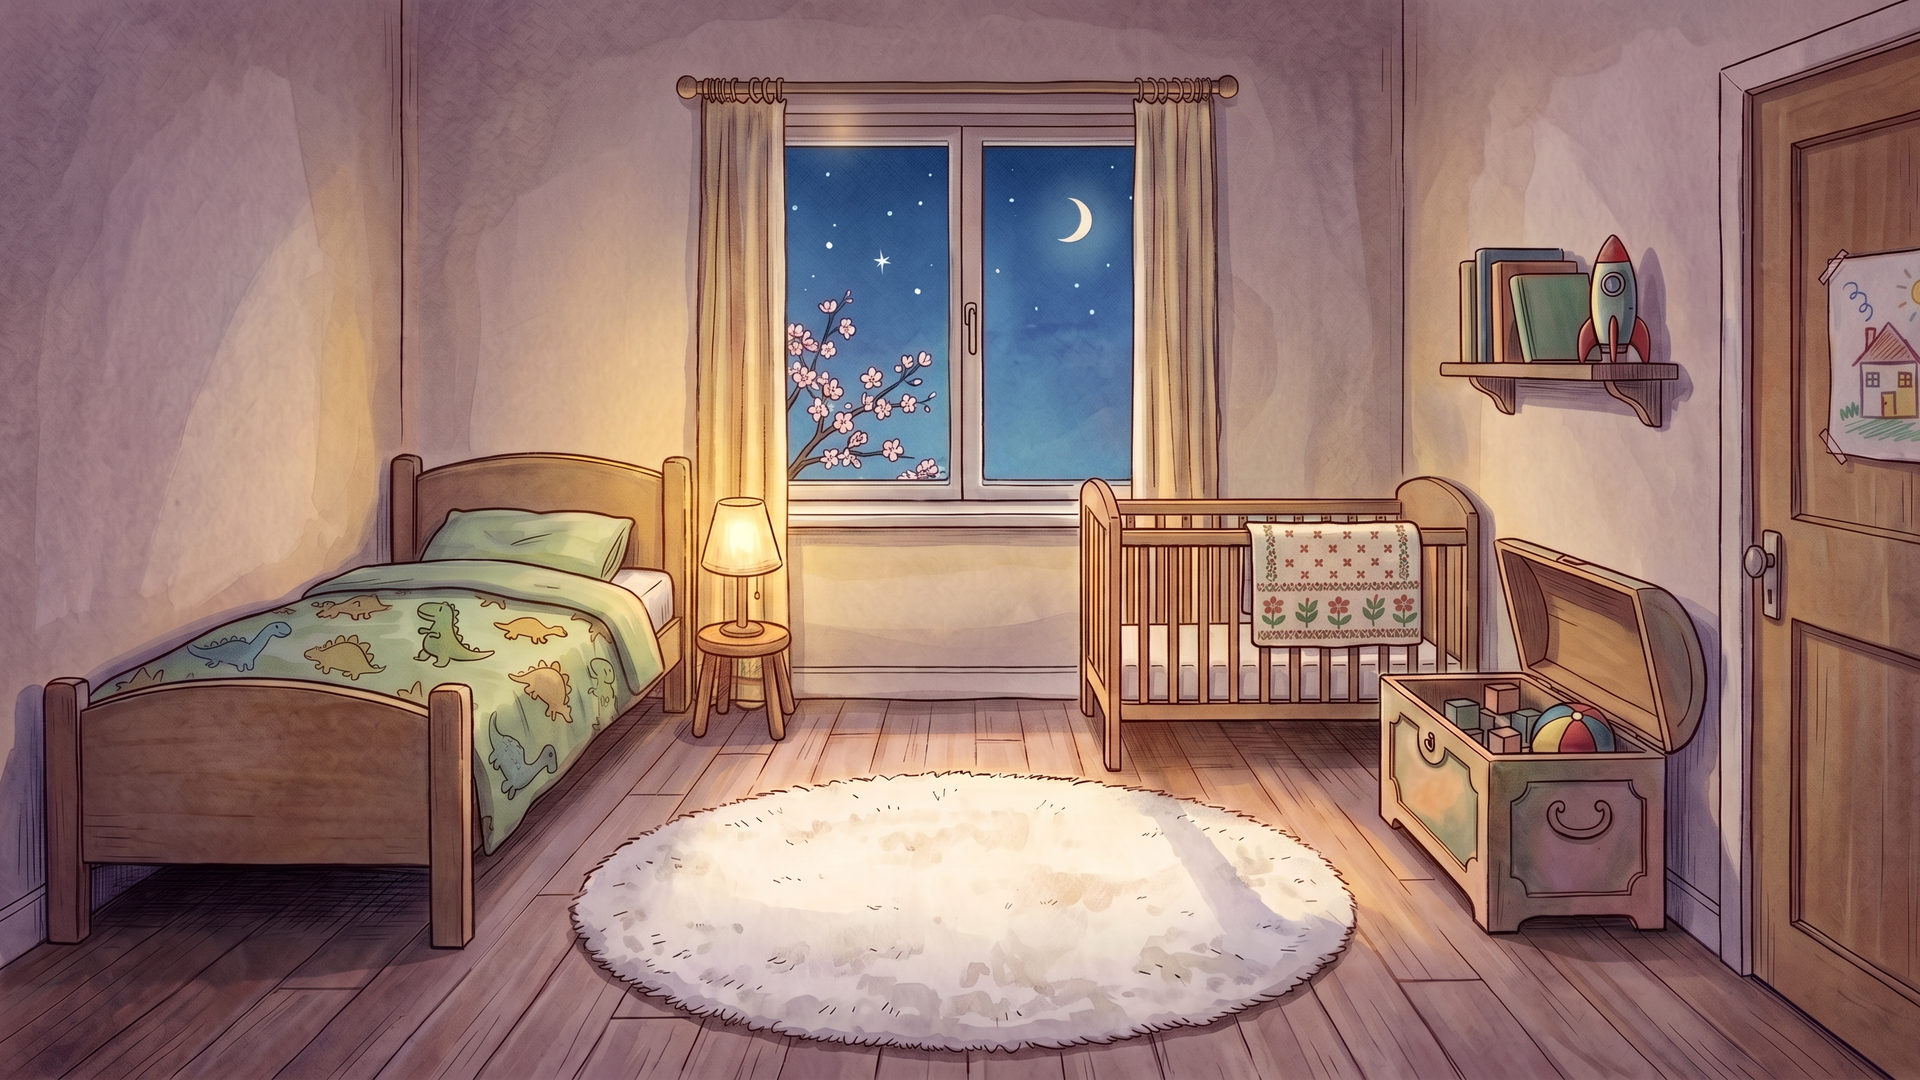
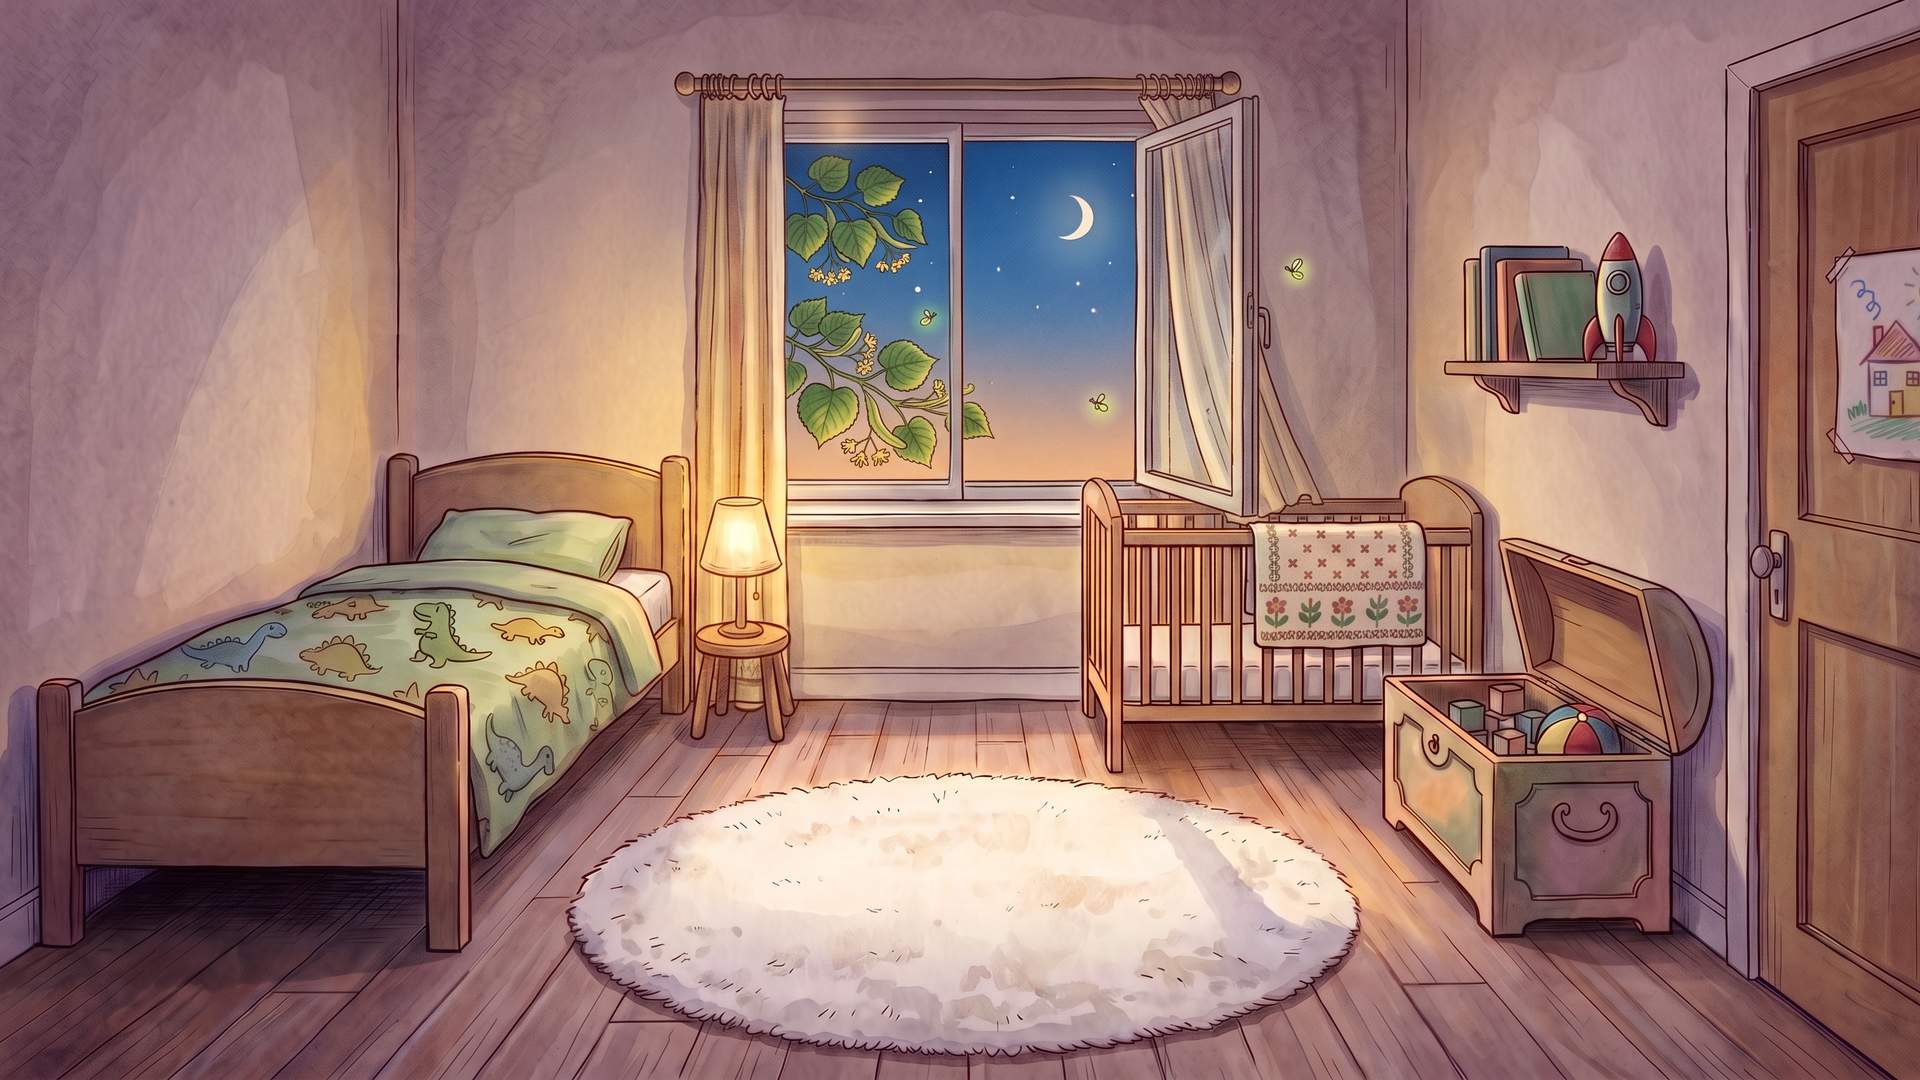
Picture cards for the prologue, burp and outro (2K); summer bedroom evening and morning

diff --git a/design/scenes/outro.md b/design/scenes/outro.md
@@ -51,3 +51,9 @@ Then → **the bedroom morning** (`bedroom`, `bg_morning`, scripted, no player c
   river), painted in the series style. No text, no signs.
 - The morning beat uses the bedroom `bg_morning` plus a new Julek pose holding the tuft
   (`wool_r`); `outro_end` is a card.
+
+## Build status
+- [x] Cards: 1K drafts → 2K finals (all in `assets/game/scenes/outro/`)
+- [ ] Lines locked → VO
+- [ ] Music and per-card sfx
+- The morning beat is the `outro/morning` card (boys in it) rather than the bare `bg_morning` with sprites.

diff --git a/design/scenes/bedroom.md b/design/scenes/bedroom.md
@@ -89,3 +89,8 @@ None in the background. The book sprite moves from the shelf to the rug.
 - `bedroom.door.look`: gucio: "Mama zaraz przyjdzie poczytać."
 - `bedroom.door.use`: gucio: "Nie wychodzimy. Już wieczór."
 - `bedroom.hint.book`: gucio: "Książka jest wysoko… A Julek tak skacze w łóżeczku!"
+
+## Build status
+- [x] Summer edits: `bg.png` (open window, linden, fireflies) and `bg_morning.png`, geometry unchanged
+- [ ] Lines locked → VO
+- [ ] Music, ambience

diff --git a/design/scenes/burp.md b/design/scenes/burp.md
@@ -29,3 +29,8 @@ After card 5 → `den`. Night has fallen; Dratewka lights his lantern.
 ## Art notes
 The dragon follows his ref in every card. In card 1 the fake sheep is a lumpy shape in
 his mouth; nothing gory. In card 4 the smoke rings are big, round and comic.
+
+## Build status
+- [x] Cards: 1K drafts → 2K finals (all in `assets/game/scenes/burp/`)
+- [ ] Lines locked → VO
+- [ ] Music and per-card sfx

diff --git a/design/scenes/prologue.md b/design/scenes/prologue.md
@@ -36,3 +36,8 @@ After card 5 → `town` (the boys enter from the left, from the river path).
 ## Art notes
 Cards 1–4 show legend characters small, in the style of their refs. Card 5 uses the
 boys' refs. No text in any card.
+
+## Build status
+- [x] Cards: 1K drafts → 2K finals (all in `assets/game/scenes/prologue/`)
+- [ ] Lines locked → VO
+- [ ] Music and per-card sfx
